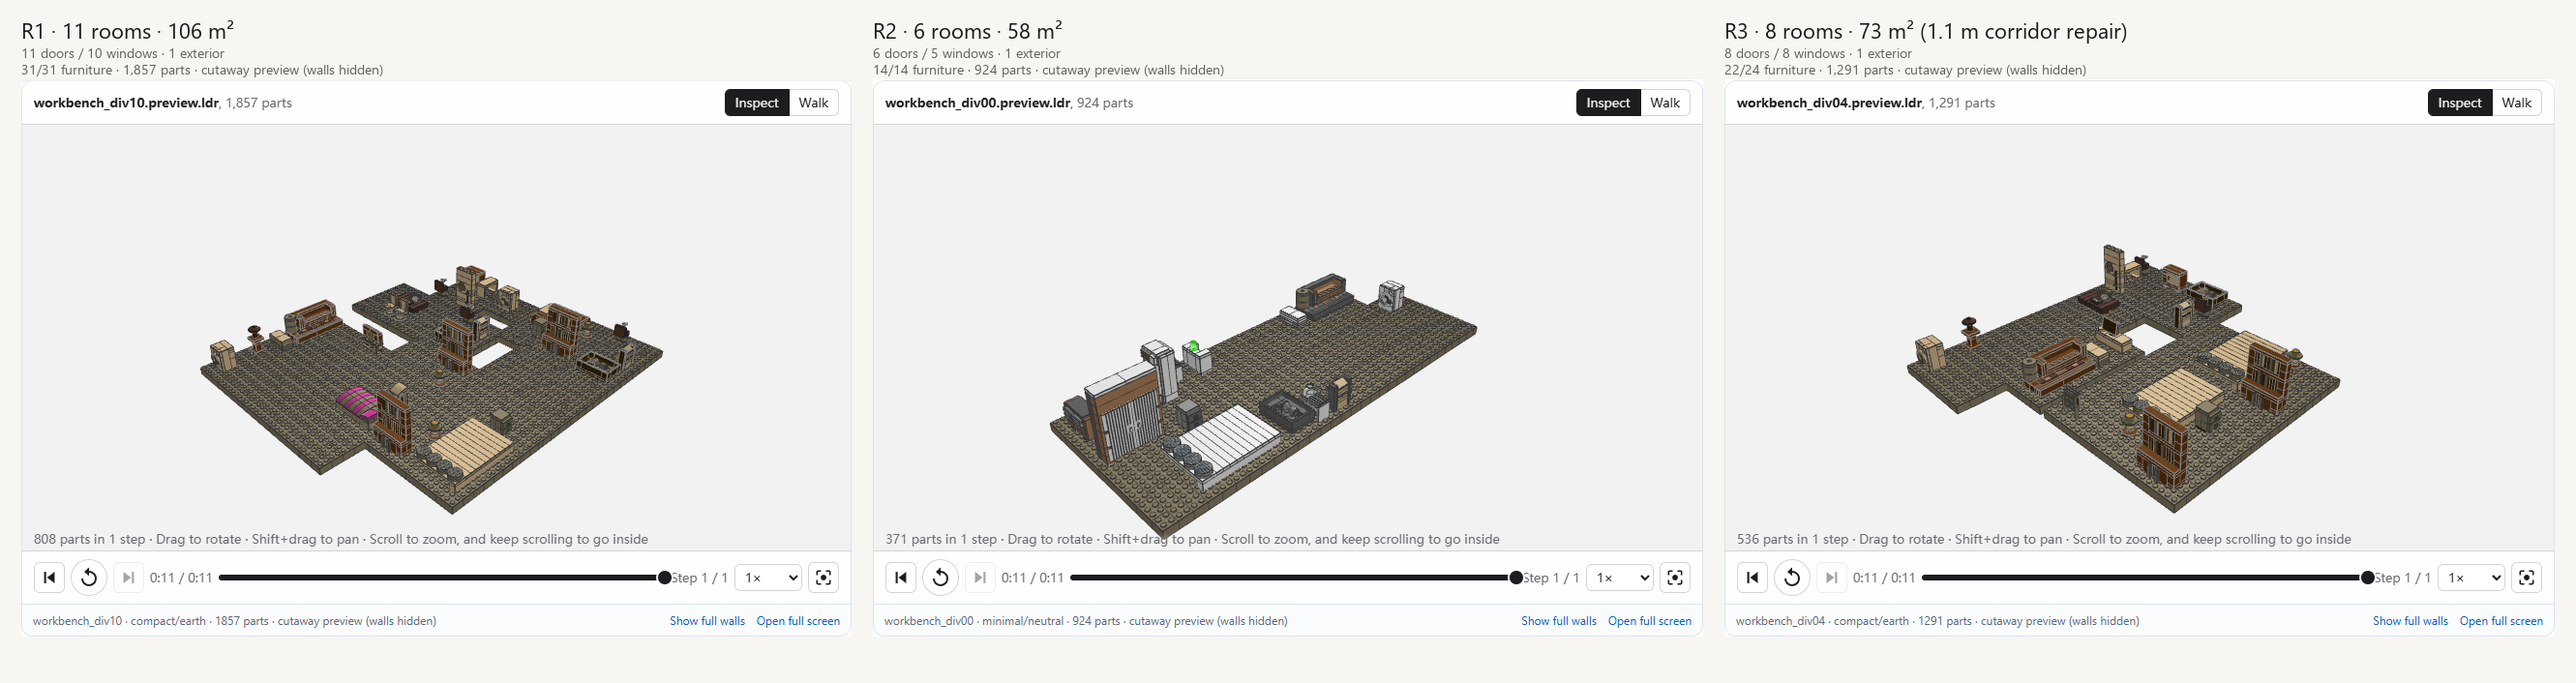
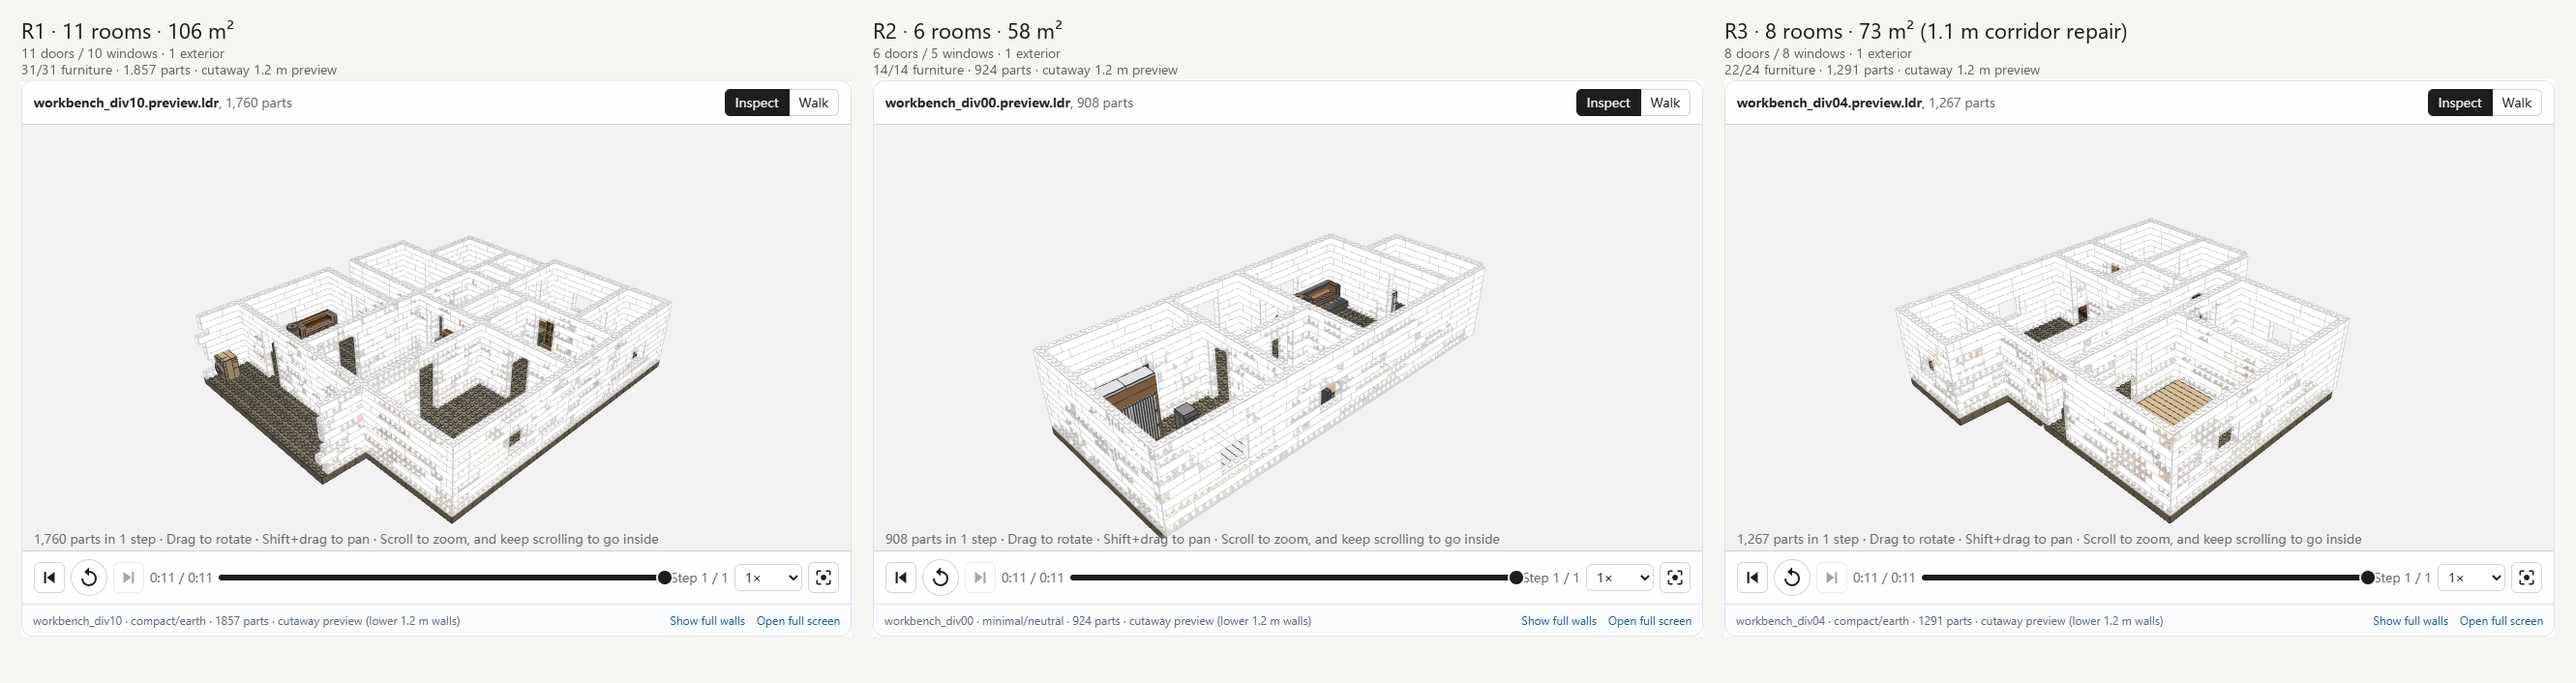
Publish Plan2Brick project page

diff --git a/latest.html b/latest.html
@@ -78,13 +78,13 @@
     <h2>Closed real-plan layouts, one entrance, real-height doors</h2>
   </div>
   <figure style="margin:18px 0 24px">
-    <img src="assets/latest/demo_3plans_cutaway.png" alt="Cutaway preview of R1, R2 and R3 real plans with walls hidden so furniture and door routes are readable." style="width:100%;height:auto;border-radius:14px;border:1px solid var(--line);background:#fff">
-    <figcaption class="fineprint">Cutaway preview of the three real-plan presets (walls hidden in the viewer). The generated scene keeps 2.4 m walls and 1.92 m closed doors; use “Show full walls” in the Workbench to switch views. Every plan reports one exterior door, closed/connected layout and 0/0 door clips.</figcaption>
+    <img src="assets/latest/demo_3plans_cutaway.png" alt="Cutaway preview of R1, R2 and R3 real plans with lower 1.2 m walls so furniture and door routes are readable." style="width:100%;height:auto;border-radius:14px;border:1px solid var(--line);background:#fff">
+    <figcaption class="fineprint">Cutaway preview of the three real-plan presets (lower 1.2 m wall band in the viewer). The generated scene keeps 2.4 m walls and 1.92 m closed doors; use “Show full walls” in the Workbench to switch views. Every plan reports one exterior door, closed/connected layout and 0/0 door clips.</figcaption>
   </figure>
   <ul class="check-list">
     <li><b>Real preset layouts.</b> R1, R2 and R3 load their transcribed <code>layout_m</code> instead of being re-packed. R3's east bedrooms were disconnected from the west block; the repair adds a 1.1 × 7.0 m hallway and all eight rooms now have a door route.</li>
     <li><b>Door graph.</b> Interior doors are a minimum spanning tree rooted at the hallway/living room, not one door per shared edge. Each real plan has exactly one exterior entrance: R1 11 doors (1 exterior), R2 6 (1), R3 8 (1).</li>
-    <li><b>Door model and height.</b> The visible leaf is now the solid, normally closed <code>60616a</code> door with handle (not the glazed panel). The Workbench default is a 10-course <b>2.4 m</b> wall; an 8-course opening gives a <b>1.92 m door</b> with a 0.48 m lintel. A cutaway preview hides walls in the viewer, while the downloadable MPD/LDR keeps the full shell.</li>
+    <li><b>Door model and height.</b> The visible leaf is now the solid, normally closed <code>60616a</code> door with handle (not the glazed panel). The Workbench default is a 10-course <b>2.4 m</b> wall; an 8-course opening gives a <b>1.92 m door</b> with a 0.48 m lintel. The viewer opens a lower 1.2 m cutaway band, while the downloadable MPD/LDR keeps the full shell.</li>
     <li><b>Clipping audit.</b> Every placement JSON records door cells vs wall bricks and door approach zones vs furniture. R1/R2/R3 report <b>0 wall cell hits and 0 furniture zone hits</b>.</li>
   </ul>
   <figure style="margin:18px 0 8px">
